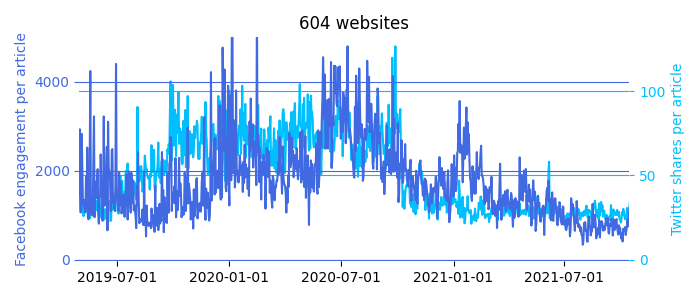
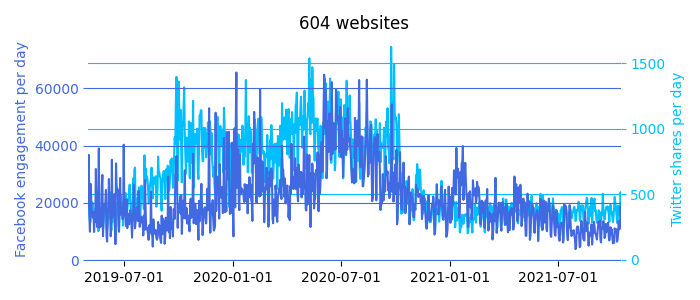
change metrics on timeseries figures

diff --git a/code/create_figures.py b/code/create_figures.py
@@ -331,24 +331,24 @@ def plot_website_engagement_over_time(df, figure_name):
     ax = plt.subplot(111)
     plt.title("{} websites".format(df.domain_name.nunique()))
 
-    ax.plot(df.groupby(by=["date"])['total_facebook_shares'].mean(), color='royalblue')
-    ax.set_ylabel("Facebook engagement per article", color='royalblue')
+    ax.plot(df.groupby(by=["date", "domain_name"])['total_facebook_shares'].sum().groupby(by=['date']).mean(), color='royalblue')
+    ax.set_ylabel("Facebook engagement per day", color='royalblue')
     ax.tick_params(axis='y', colors='royalblue')
     plt.locator_params(axis='y', nbins=4)
     ax.grid(axis="y", color='royalblue')
     ax.set_frame_on(False)
     ax.set_zorder(10)
-    plt.ylim(bottom=-30, top=5000)
+    plt.ylim(bottom=-300)
 
     ax2 = ax.twinx()
-    ax2.plot(df.groupby(by=["date"])['twitter_shares'].mean(), color='deepskyblue')
-    ax2.set_ylabel("Twitter shares per article", color='deepskyblue')
+    ax2.plot(df.groupby(by=["date", "domain_name"])['twitter_shares'].sum().groupby(by=['date']).mean(), color='deepskyblue')
+    ax2.set_ylabel("Twitter shares per day", color='deepskyblue')
     ax2.tick_params(axis='y', colors='deepskyblue')
     plt.locator_params(axis='y', nbins=4)
     ax2.grid(axis="y", color='deepskyblue')
     ax2.set_frame_on(False)
     ax2.set_zorder(0)
-    plt.ylim(bottom=-1)
+    plt.ylim(bottom=-10)
 
     plt.xlim(np.datetime64('2019-05-01'), np.datetime64('2021-10-15'))
     plt.xticks([np.datetime64('2019-07-01'), np.datetime64('2020-01-01'), 
@@ -362,13 +362,13 @@ def plot_group_engagement_over_time(df, figure_name):
 
     plt.figure(figsize=(7, 2.5))
     ax = plt.subplot(111)
-    plt.plot(df.groupby(by=["date"])['engagement'].mean(), color='royalblue')
+    plt.plot(df.groupby(by=["date", "account_id"])['engagement'].sum().groupby(by=['date']).mean(), color='royalblue')
 
-    ax.set_ylabel("Facebook engagement per post", color='royalblue')
+    ax.set_ylabel("Facebook engagement per day", color='royalblue')
     plt.locator_params(axis='y', nbins=4)
     ax.tick_params(axis='y', colors='royalblue')
     ax.grid(axis="y", color='royalblue')
-    plt.ylim(bottom=-1)
+    plt.ylim(bottom=-40)
 
     plt.xlim(np.datetime64('2021-01-01'), np.datetime64('2021-12-10'))
     plt.xticks([np.datetime64('2021-02-01'), np.datetime64('2021-06-01'), np.datetime64('2021-10-01')])
